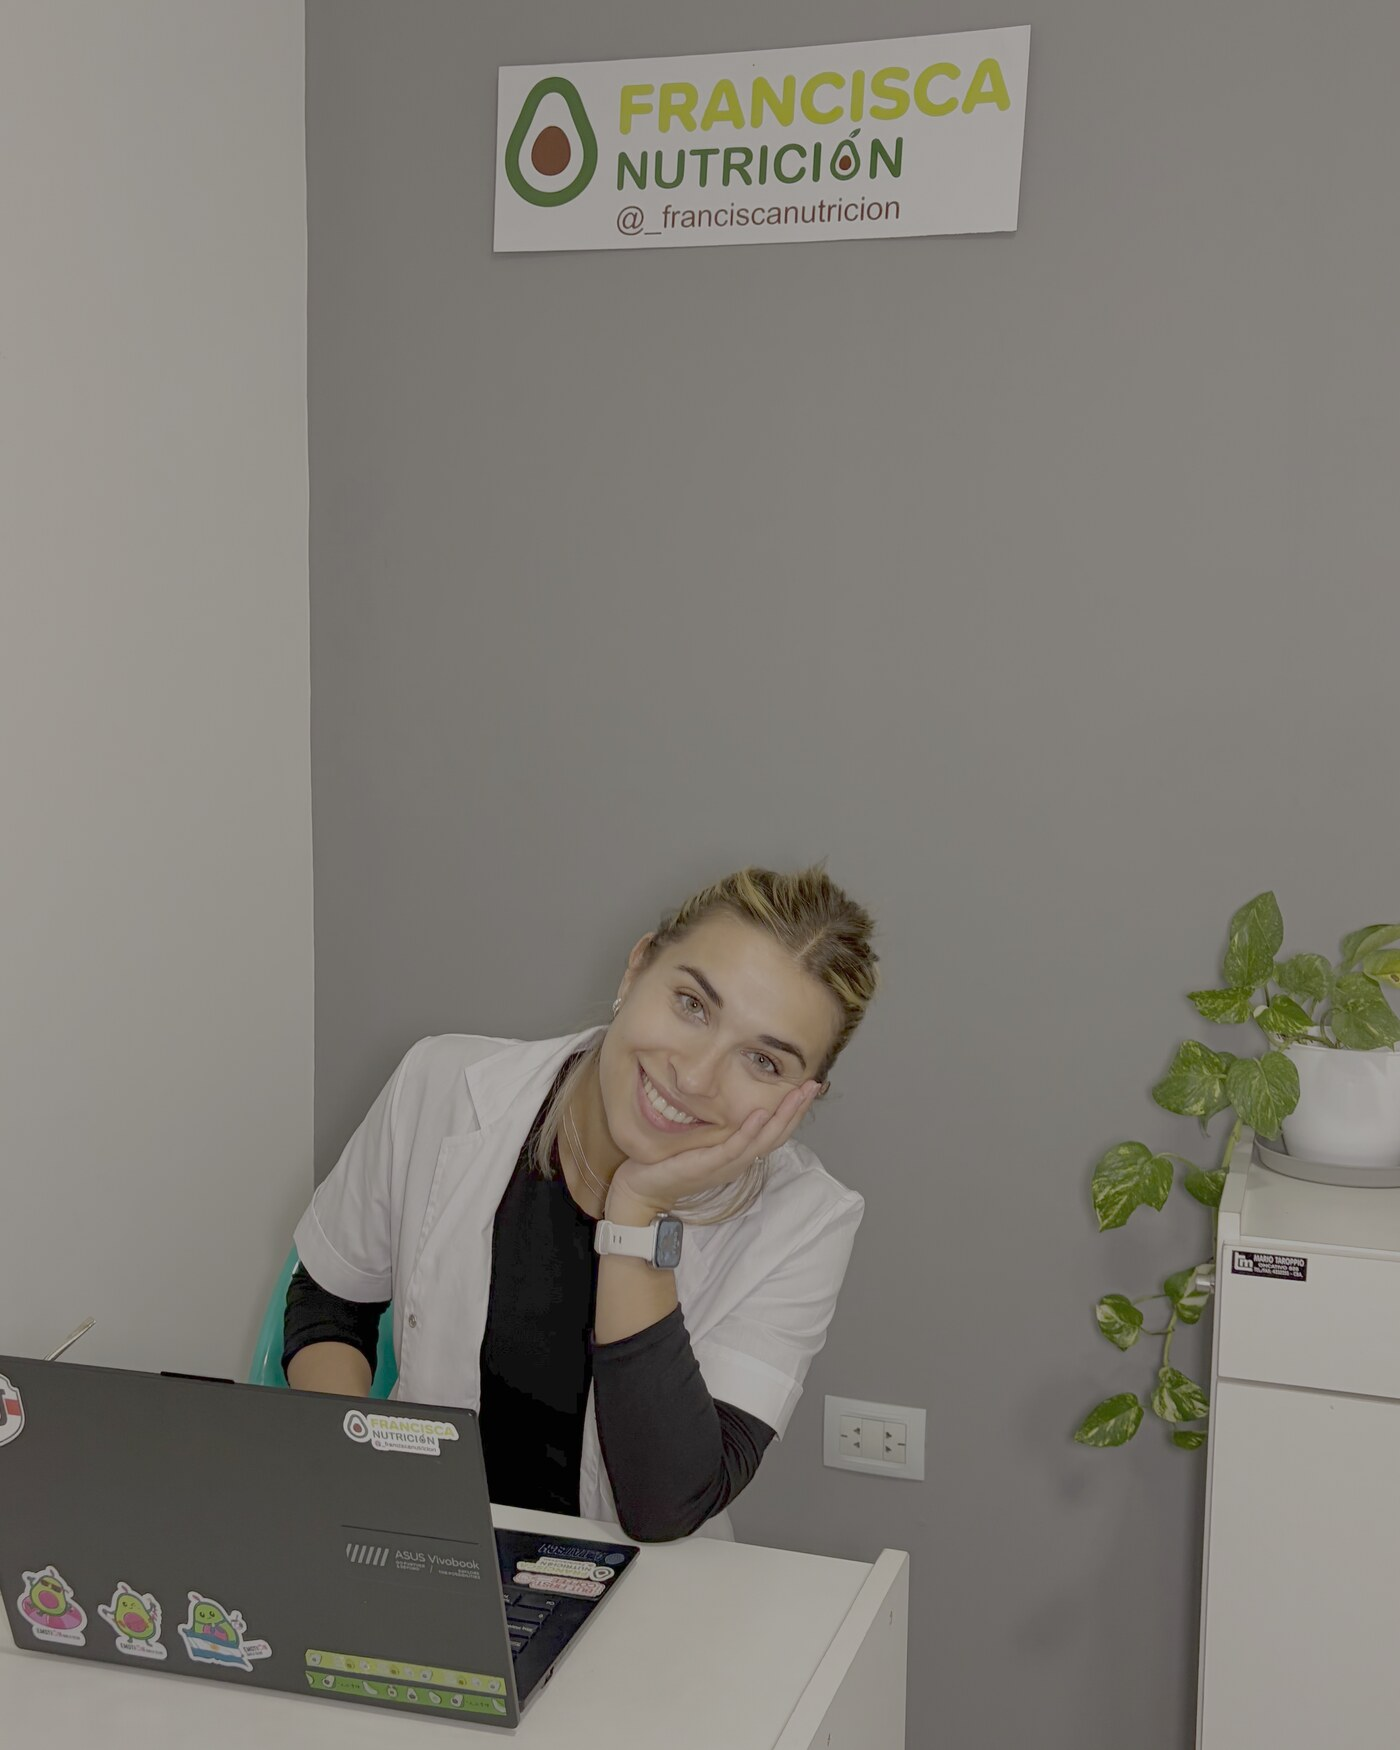
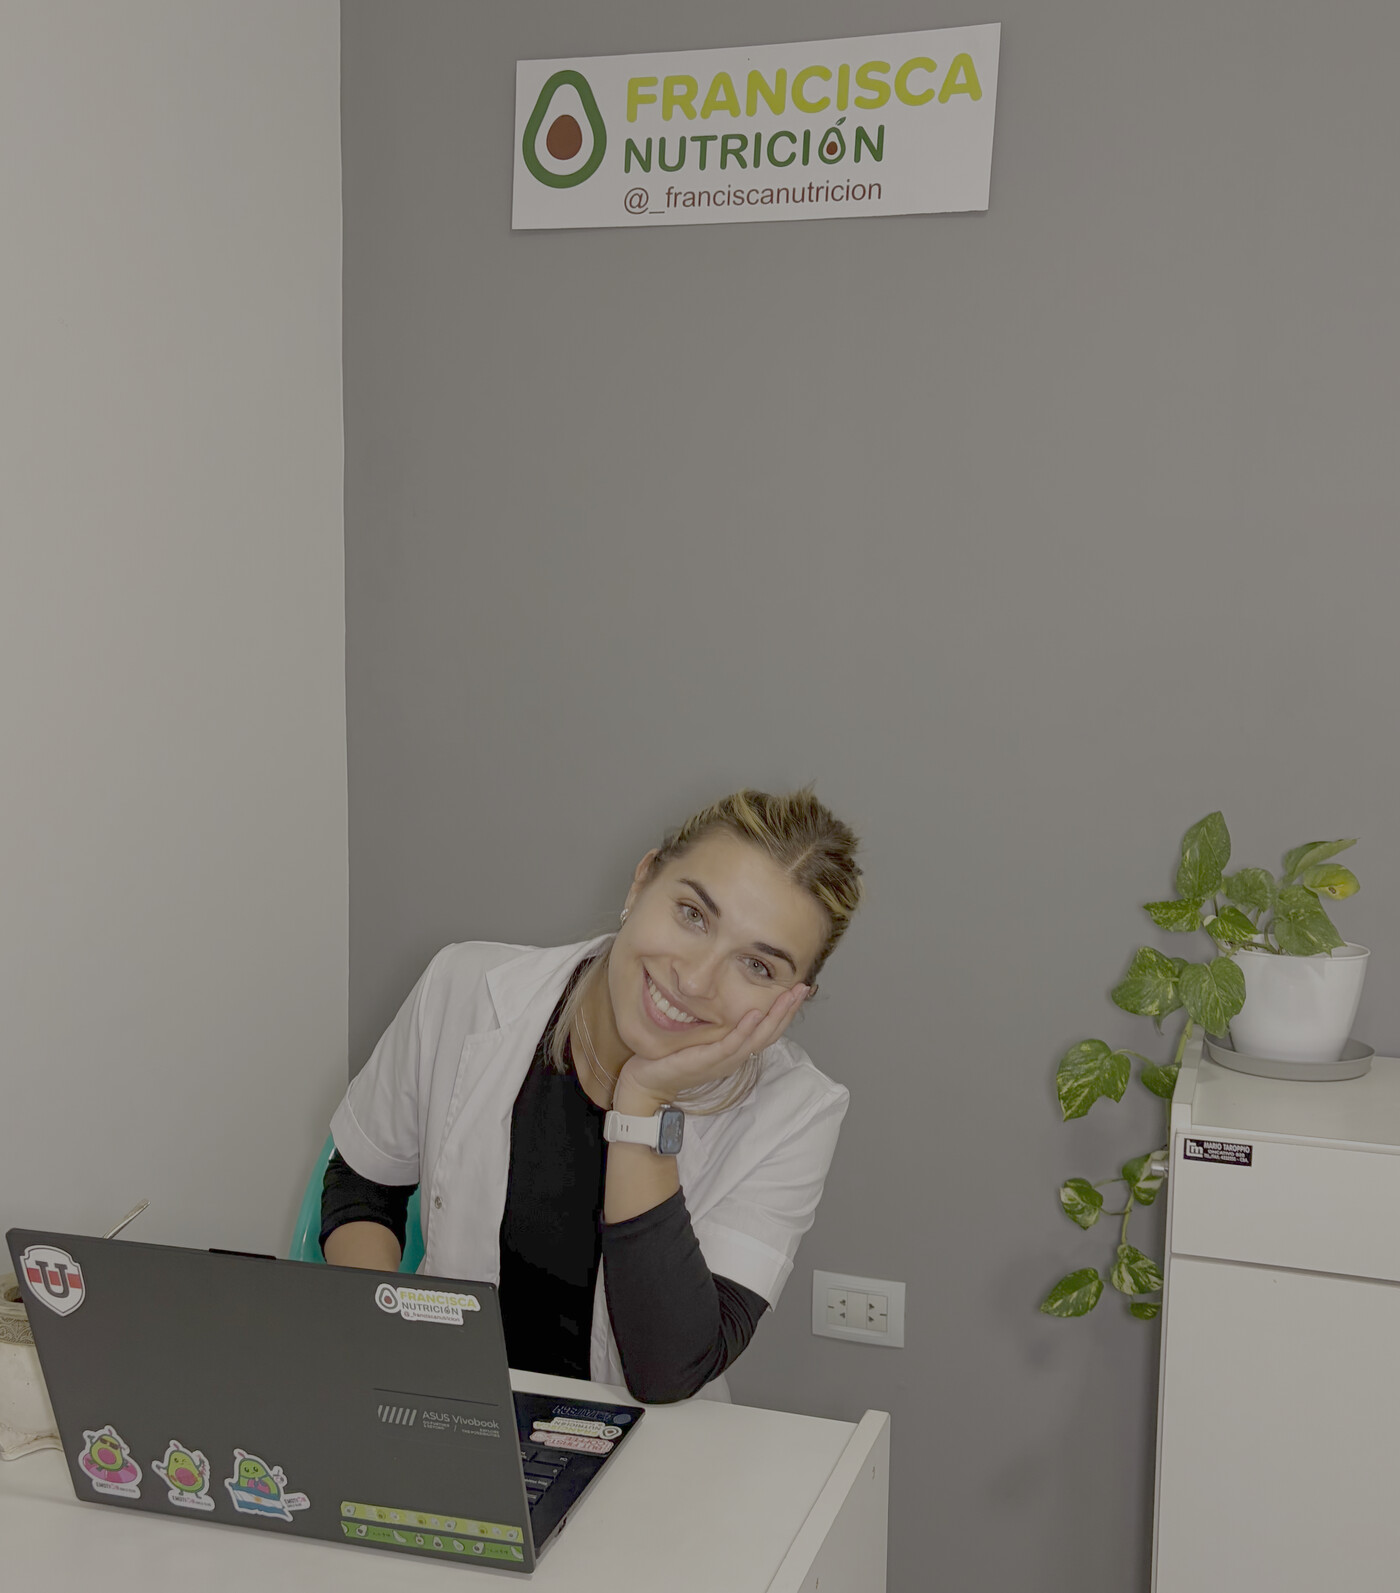
Dejar la foto del consultorio sin recortar
El recorte a 4:5 le cortaba los costados a la foto original. Ahora se
usa la imagen completa y el contenedor del Hero toma la proporción
real de la foto (1400x1593) para que no se pierda nada del encuadre.

diff --git a/index.html b/index.html
@@ -166,7 +166,7 @@
   .hero-trust{margin-top:2.4rem;display:flex;align-items:center;gap:.9rem;color:var(--ink-soft);font-size:.92rem}
   .stars{color:var(--clay);letter-spacing:.12em}
   .hero-photo{position:relative}
-  .hero-photo .ph{aspect-ratio:4/5}
+  .hero-photo .ph{aspect-ratio:1400/1593}
   .hero-badge{
     position:absolute;left:-18px;bottom:26px;z-index:3;
     background:rgba(251,248,241,.82);backdrop-filter:blur(12px);
